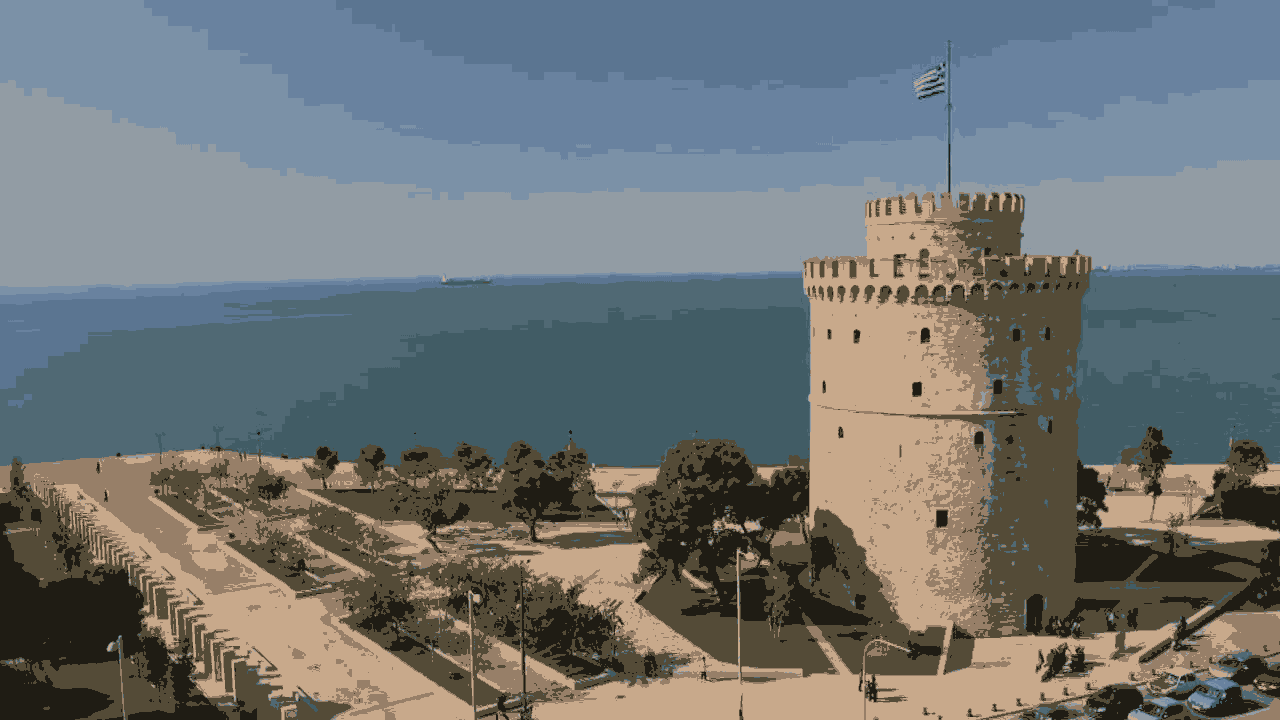
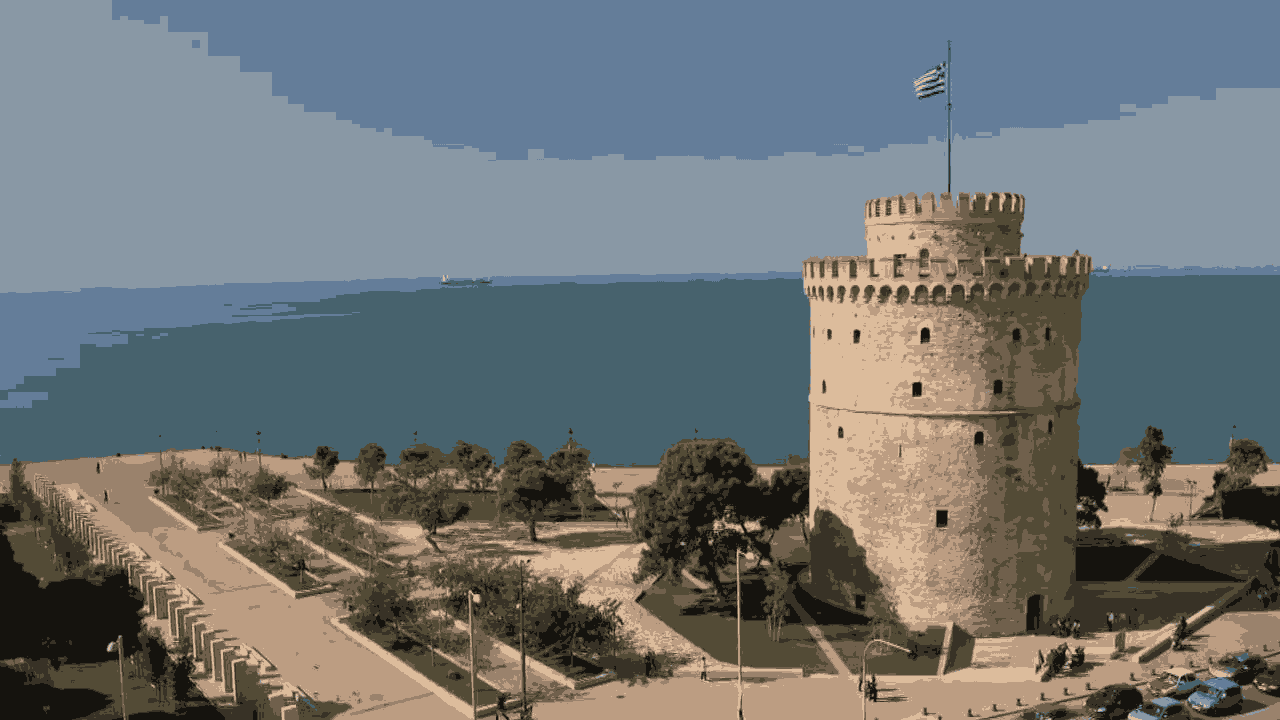
updated results

diff --git a/Assignment4_ImageSegmentation_PixelClassification/main.py b/Assignment4_ImageSegmentation_PixelClassification/main.py
@@ -52,8 +52,8 @@ def main():
         Path(result_dir).mkdir()
 
     kmeans_segmentation()
-    SLIC()
-    pixel_classification()
+    # SLIC()
+    # pixel_classification()
 
 
 if __name__ == '__main__':
